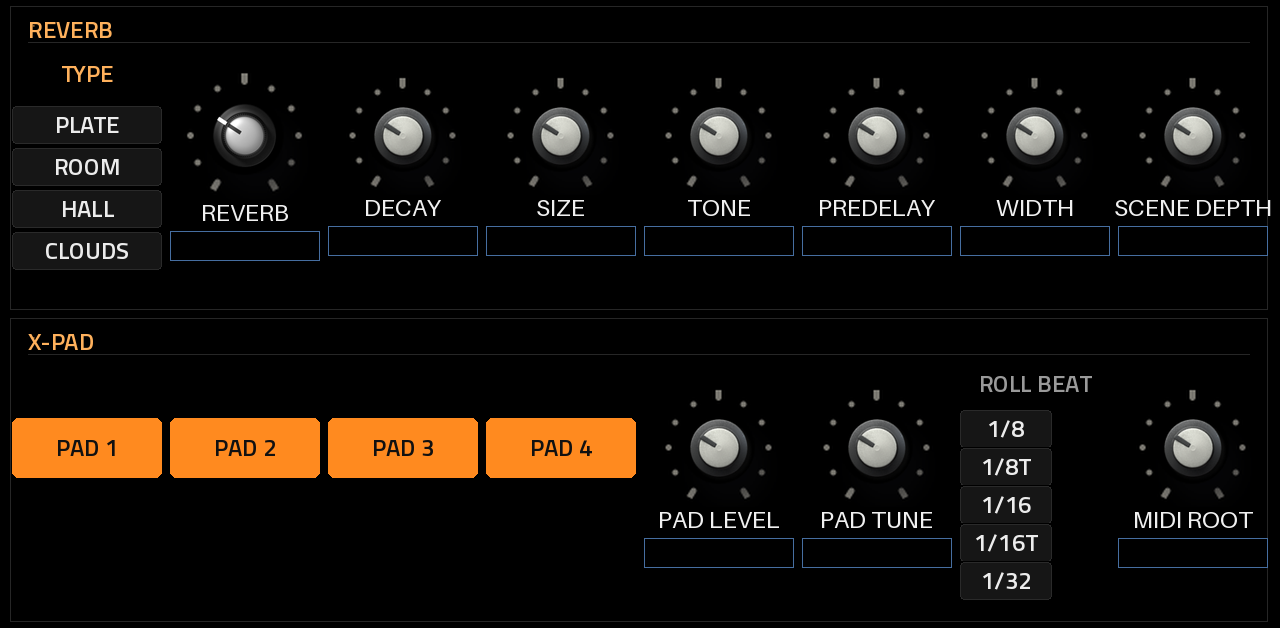
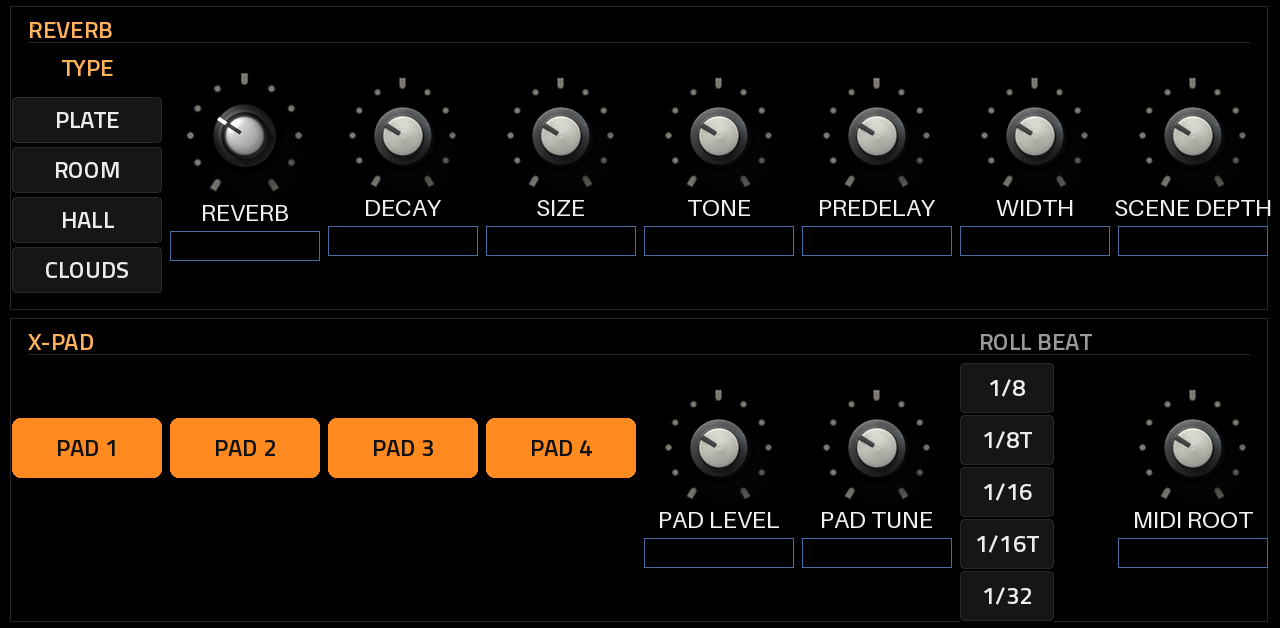
Skin: big-button performance panel on REMIX, CLOUDS modes as big buttons, bigger option buttons
Echo Beat, Release FX, Beats, RELEASE FX and a red PANIC fill the REMIX lower half; per-button sizes
via #@btn lines in layout.conf. Roll Beat, Edit Pad, Type, Quality and Hard/Smooth buttons enlarged.

Claude-Session: https://claude.ai/code/session_01Pv6TisQmujdB62QBi8rCie

diff --git a/tools/post_skin.py b/tools/post_skin.py
@@ -32,6 +32,9 @@ PAD_W, PAD_H = 250, 110
 ACCENT, ACCENT_HI, INK, INK_DIM = "ff8a1f", "ffb15c", "ececec", "9a9a9a"
 
 
+BTN_SIZES = {}   # key -> (w, h), from "#@btn key=<param> w= h=" lines in layout.conf
+
+
 def font(px):
     return ImageFont.truetype(FONT, px)
 
@@ -61,14 +64,16 @@ def draw_button(path, w, h, label, pad):
         dr.rounded_rectangle((1, 1, w - 2, h - 2), radius=10, fill="#" + ACCENT, outline="#" + ACCENT_HI, width=2)
         text_center(dr, w / 2, h / 2, label, 44, "111111")
     else:
+        fill, fill_hi, ink = (("d23a2a", "ff5a48", "ffffff") if label == "PANIC" else (ACCENT, ACCENT_HI, "111111"))
+        px = TEXT_PX + 6 if h >= 64 else TEXT_PX   # the big performance buttons read from further away
         off = Image.new("RGB", (w, h), (0, 0, 0))
         dr = ImageDraw.Draw(off)
-        dr.rounded_rectangle((0, 0, w - 1, h - 1), radius=6, fill="#" + ACCENT)
-        text_center(dr, w / 2, h / 2, label, TEXT_PX, "111111")
+        dr.rounded_rectangle((0, 0, w - 1, h - 1), radius=8, fill="#" + fill)
+        text_center(dr, w / 2, h / 2, label, px, ink)
         on = Image.new("RGB", (w, h), (0, 0, 0))
         dr = ImageDraw.Draw(on)
-        dr.rounded_rectangle((0, 0, w - 1, h - 1), radius=6, fill="#" + ACCENT_HI)
-        text_center(dr, w / 2, h / 2, label, TEXT_PX, "111111")
+        dr.rounded_rectangle((0, 0, w - 1, h - 1), radius=8, fill="#" + fill_hi)
+        text_center(dr, w / 2, h / 2, label, px, ink)
     off.save(path + "_off.png")
     on.save(path + "_on.png")
 
@@ -96,9 +101,10 @@ def fix_buttons(skin, tui):
         label = places[0]["componentData"]["name"]
         _, _, w, h = (int(v) for v in btn["bounds"]["bounds"].split())
         pad = label.isdigit()
+        big = next((v for k, v in BTN_SIZES.items() if key.startswith("shTrig_%s_" % k)), None)   # "#@btn" lines
         f = font(TEXT_PX)
         tw = int(ImageDraw.Draw(Image.new("RGB", (1, 1))).textlength(label, font=f))
-        nw, nh = (PAD_W, PAD_H) if pad else (max(w, tw + 40, BTN_W), max(h, BTN_H))
+        nw, nh = (PAD_W, PAD_H) if pad else big if big else (max(w, tw + 40, BTN_W), max(h, BTN_H))
         set_bounds(comps, nw, nh)
         for c in places:   # keep each placement centred where the layout put it
             x, y, pw, ph = (int(v) for v in c["bounds"]["bounds"].split())
@@ -247,6 +253,10 @@ def main():
     global TEXT_PX
     m = re.search(r"^label_scale=([\d.]+)", layout, re.M)
     TEXT_PX = int(round(21 * float(m.group(1)))) if m else 21
+    for line in layout.splitlines():
+        if line.startswith("#@btn"):
+            a = parse_attrs(line)
+            BTN_SIZES[a["key"]] = (int(a["w"]), int(a["h"]))
     params = json.load(open(os.path.join(ROOT, "params.json")))
     tui_path = os.path.join(skin, "TUI.json")
     tui = json.load(open(tui_path))

diff --git a/docs/USER_GUIDE.md b/docs/USER_GUIDE.md
@@ -68,7 +68,7 @@ Each page has a top row and a bottom row of controls. Turn knobs on the touchscr
 | Filter | Centre = off. Left = low-pass sweeping down, right = high-pass sweeping up |
 | Resonance | Filter resonance, Q 0.4 to 4 (automatically limited when both filters are close) |
 | Echo | Echo send amount |
-| Echo Beat | Echo time: 1/16, 1/8, 3/16, 1/4, 3/8, 1/2, 3/4 or 1 bar, following the MPC tempo |
+| Echo Beat | Echo time: 1/16, 1/8, 3/16, 1/4, 3/8, 1/2, 3/4 or 1 bar, following the MPC tempo (button row) |
 | Reverb | Reverb send amount (type and character are set on the REVERB page) |
 | Release (ON / OFF) | The kill switch. **On**: the whole effect goes to the dry input and stays dry. **Off**: the effects come back exactly as they were. It never moves a knob |
 | Hard / Smooth | How Release switches. **Hard**: an instant cut (5 ms, no click). **Smooth**: a fade over **Beats**, both ways |
@@ -78,7 +78,9 @@ Each page has a top row and a bottom row of controls. Turn knobs on the touchscr
 | RELEASE FX (button) | Fires the selected Release FX |
 | PANIC | Back to factory settings at once (see below) |
 | Feedback | Echo feedback; Build Up and Break Down add more on top |
-| Noise | How much noise riser Build Up brings in |
+
+The lower half is one panel of big buttons: **Echo Beat** (1/16 to 1 bar), **Release FX** and **Beats**, then the
+**RELEASE FX** and **PANIC** buttons. The riser's Noise amount, Tune and Duck are on SETUP (and Noise on a REMIX Q-Link).
 
 While Release is on, the effects keep running underneath (echoes keep repeating, the reverb keeps ringing), so switching it off drops you straight back into the mix as it was. The pads are not muted: you can keep playing them over the dry signal.
 

diff --git a/CHANGELOG.md b/CHANGELOG.md
@@ -26,6 +26,8 @@ Fixes from the first test on an Akai Force (MPC OS 3.9.1), and the features aske
   the release zip now explain the MIDI routing step by step.
 - **No more drop-downs covering the page**: Echo Beat, Clouds Mode, Quality and Roll Beat are always-visible button
   grids, and the 16 preset slots are a grid too. Only the 17-entry pad Sound picker is still a list (it closes on a pick).
+- **REMIX lower half is a big-button panel** for performance: Echo Beat, Release FX, Beats, RELEASE FX and a red
+  PANIC; Feedback moved up next to Echo, Noise to SETUP. CLOUDS shows its six modes as a row of big buttons.
 - **Bigger controls**: larger knobs (as large as MPC's filmstrip limit allows), big ON / OFF switches, taller buttons
   and option boxes.
 
